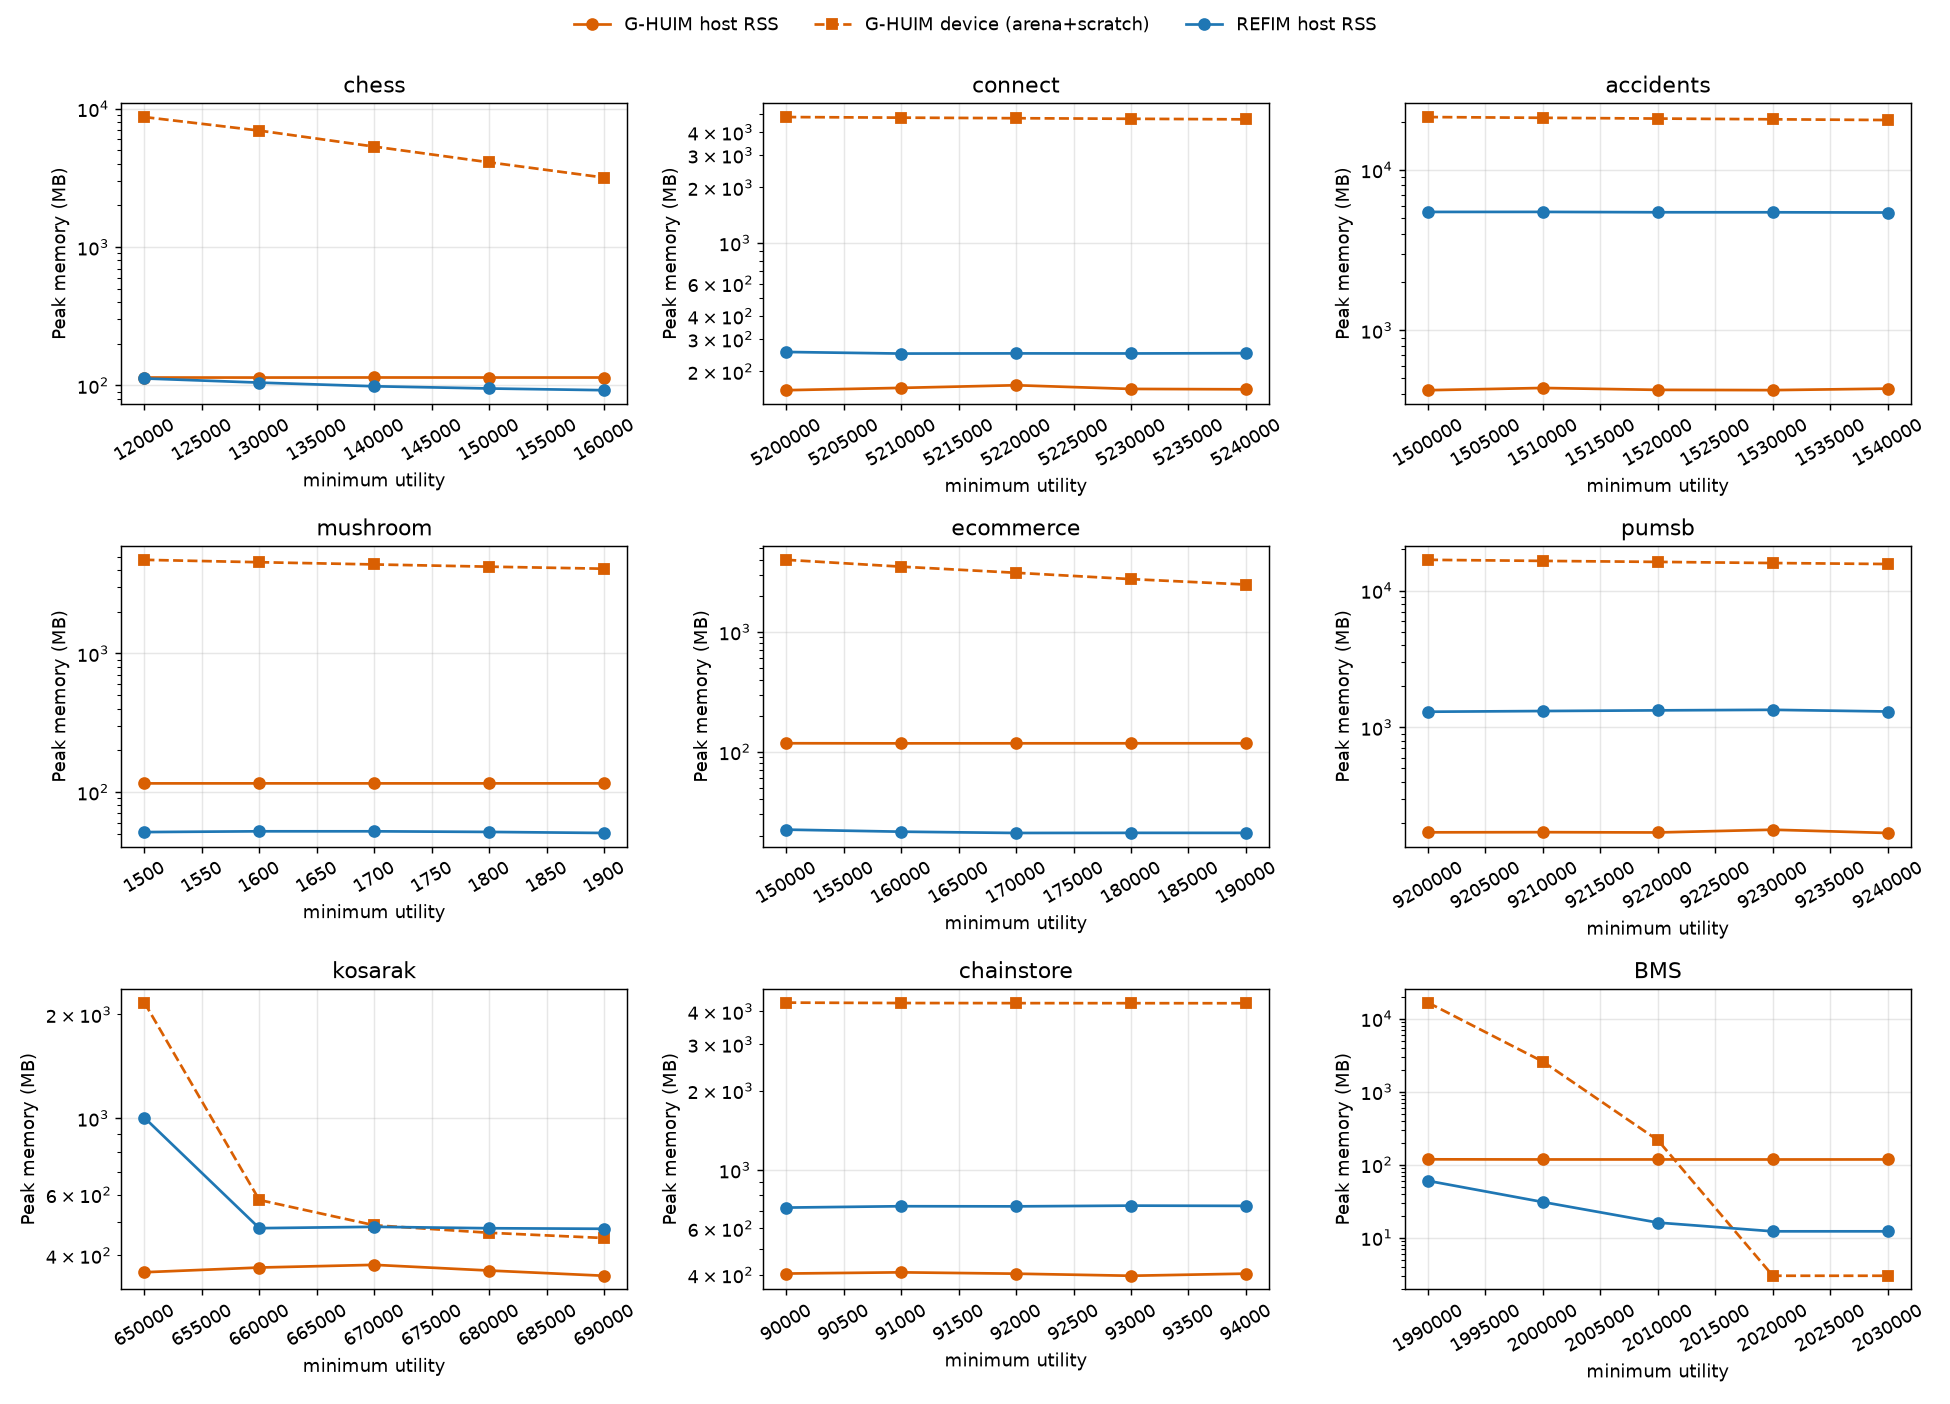
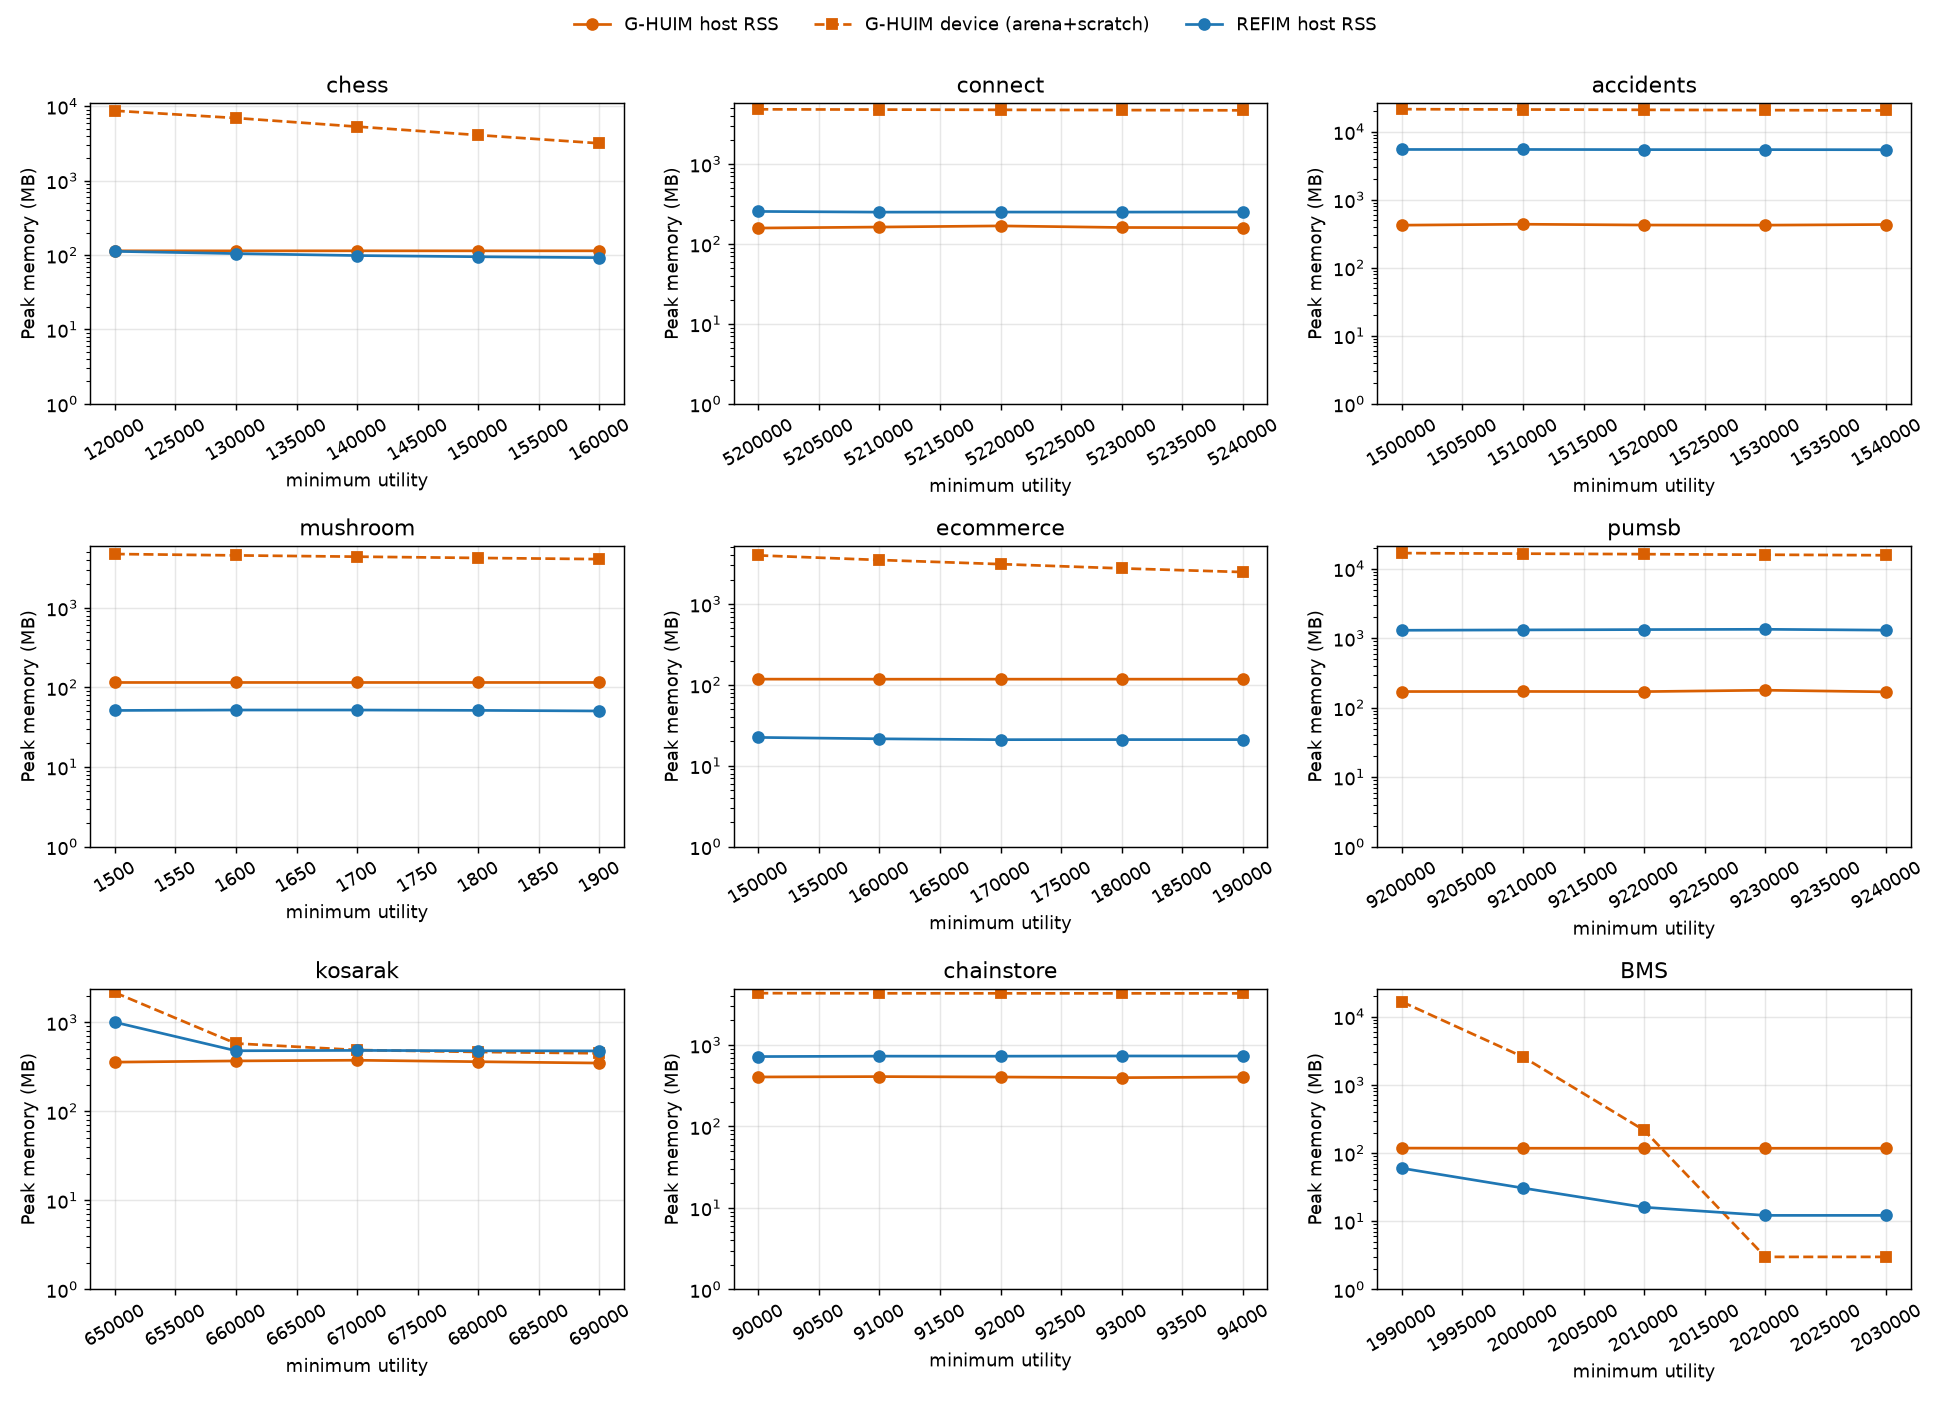
Sweep plots: y-axis starts at 10^0 on log scale

diff --git a/experiments/plot_sweep.py b/experiments/plot_sweep.py
@@ -35,6 +35,8 @@ def panel(ax, data, metric):
             ax.plot(ok.index, ok[metric], "o-", color=COLORS[miner], label=miner)
         failed[miner] = g[g.status != "ok"].minutil.unique()
     ax.set_yscale("log")
+    # log axis can't reach 0: start at 10^0 = 1 (lower only if data dips below, e.g. sub-second runtimes)
+    ax.set_ylim(bottom=min(1, ax.dataLim.y0 * 0.8))
     for miner, xs in failed.items():
         if len(xs):
             ax.plot(xs, [ax.get_ylim()[0]] * len(xs), "x", color="red", ms=9, mew=2, label=f"{miner} didn't run", clip_on=False)
